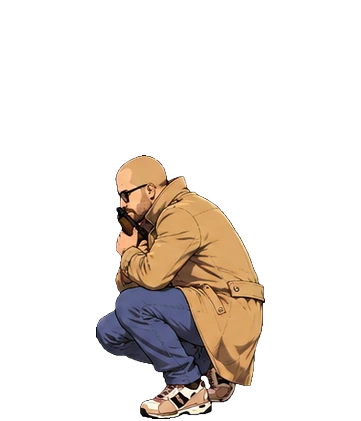
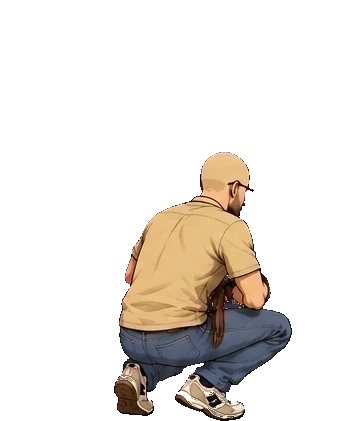
callaghan v7.05 : retour aux anciens personnages de la ruelle
Thibaut n'aime pas les nouveaux. Les 25 sprites d'avant sont restaures
depuis le depot.

- POSES_RUEL_TH et _PF reviennent a leurs jeux d'origine : les anciens
  sprites n'ont pas 'fumee' pour Thibaut ni 'debout' pour PF. Les deux
  fichiers ajoutes sont supprimes, et les canons mesures pour eux retires.
- SENS_NATIF revient a +1 pour les deux : les anciennes planches regardent
  toutes a droite.

CE QUI EST GARDE, parce qu'independant des dessins :
- l'orientation DECLAREE. C'est elle qui a rendu ce retour possible sans
  toucher au rendu : il a suffi de redeclarer PF en 'regarde a droite'. Le
  'i === 1' en dur aurait demande de rouvrir le code de dessin.
- les deux scenes de controle, tir et rechargement des deux heros.

Les nouvelles planches restent archivees dans planches/n4/ : rien n'est
perdu si l'avis change.

Changed region(s): [[0.2438, 0.3397, 0.8227, 1.0]]

diff --git a/callaghan/index.html b/callaghan/index.html
@@ -783,7 +783,7 @@ kbd{
     <div class="lecture" id="dLecture"></div>
   </div>
 
-  <div id="version">CALLAGHAN v7.04</div>
+  <div id="version">CALLAGHAN v7.05</div>
 
   <div id="pupitre2">
     <button class="cmd2" id="c2G" aria-label="Aller à gauche">◀</button>
@@ -855,7 +855,7 @@ kbd{
      UIManager         -> Interface
 ================================================================== */
 
-const VERSION = "7.04";
+const VERSION = "7.05";
 
 /* ---------- géométrie ----------
    Tout est exprimé en « unités monde », où un personnage mesure
@@ -1829,17 +1829,16 @@ const OBJETS_RUELLE = [
    Un `+1` regarde à droite, un `-1` à gauche. Le rendu retourne
    l'image quand le sens VOULU diffère du sens natif, au lieu de retourner
    un indice choisi une fois pour toutes. */
-const SENS_NATIF = { ruel_th: +1, ruel_pf: -1 };
+const SENS_NATIF = { ruel_th: +1, ruel_pf: +1 };
 
 /* Le sens vers lequel chaque héros doit regarder dans la ruelle : ils
    encadrent la barricade, donc ils se font face. */
 const SENS_VOULU = [+1, -1];
 
 const POSES_RUEL_TH = ["accroupi", "leve1", "leve2", "debout", "arme1", "arme2",
-                       "vise1", "vise2", "tir", "fumee", "recul1", "recul2",
-                       "baisse"];
-const POSES_RUEL_PF = ["accroupi", "leve1", "leve2", "debout", "arme1", "arme2",
-                       "vise", "tir", "fumee", "recul1", "recul2", "baisse"];
+                       "vise1", "vise2", "tir", "recul1", "recul2", "baisse"];
+const POSES_RUEL_PF = ["accroupi", "leve1", "leve2", "arme1", "arme2", "vise",
+                       "tir", "fumee", "recul1", "recul2", "baisse"];
 /* L'intro du niveau 4 : le duo sur la ruelle floutée. Elle sert à deux
    choses — annoncer le niveau, et donner au navigateur le temps de
    charger le décor et les ennemis avant la première image. */
@@ -10338,13 +10337,8 @@ const CANONS = {
     baisse:[0.701, 0.421],   debout:[0.834, 0.496], leve1:[0.562, 0.407],
     leve2:[0.671, 0.393],    recul1:[0.825, 0.136], recul2:[0.725, 0.186],
     tir:[0.964, 0.160],      vise1:[0.894, 0.153],  vise2:[0.906, 0.167],
-    /* MESURÉE sur le nouveau sprite : l'arme retombe, la bouche descend
-       à mi-hauteur et recule au milieu du corps. */
-    fumee:[0.574, 0.416],
   },
   pf: {
-    /* MESURÉE sur le nouveau sprite. */
-    debout:[0.222, 0.603],
     accroupi:[0.701, 0.451], arme1:[0.911, 0.240], arme2:[0.958, 0.093],
     baisse:[0.729, 0.411],   fumee:[0.864, 0.128], leve1:[0.571, 0.492],
     leve2:[0.601, 0.494],    recul1:[0.787, 0.192], recul2:[0.751, 0.342],

diff --git a/callaghan/parts/a_socle.js b/callaghan/parts/a_socle.js
@@ -18,7 +18,7 @@
      UIManager         -> Interface
 ================================================================== */
 
-const VERSION = "7.04";
+const VERSION = "7.05";
 
 /* ---------- géométrie ----------
    Tout est exprimé en « unités monde », où un personnage mesure
@@ -992,17 +992,16 @@ const OBJETS_RUELLE = [
    Un `+1` regarde à droite, un `-1` à gauche. Le rendu retourne
    l'image quand le sens VOULU diffère du sens natif, au lieu de retourner
    un indice choisi une fois pour toutes. */
-const SENS_NATIF = { ruel_th: +1, ruel_pf: -1 };
+const SENS_NATIF = { ruel_th: +1, ruel_pf: +1 };
 
 /* Le sens vers lequel chaque héros doit regarder dans la ruelle : ils
    encadrent la barricade, donc ils se font face. */
 const SENS_VOULU = [+1, -1];
 
 const POSES_RUEL_TH = ["accroupi", "leve1", "leve2", "debout", "arme1", "arme2",
-                       "vise1", "vise2", "tir", "fumee", "recul1", "recul2",
-                       "baisse"];
-const POSES_RUEL_PF = ["accroupi", "leve1", "leve2", "debout", "arme1", "arme2",
-                       "vise", "tir", "fumee", "recul1", "recul2", "baisse"];
+                       "vise1", "vise2", "tir", "recul1", "recul2", "baisse"];
+const POSES_RUEL_PF = ["accroupi", "leve1", "leve2", "arme1", "arme2", "vise",
+                       "tir", "fumee", "recul1", "recul2", "baisse"];
 /* L'intro du niveau 4 : le duo sur la ruelle floutée. Elle sert à deux
    choses — annoncer le niveau, et donner au navigateur le temps de
    charger le décor et les ennemis avant la première image. */

diff --git a/callaghan/parts/j_ruelle.js b/callaghan/parts/j_ruelle.js
@@ -353,13 +353,8 @@ const CANONS = {
     baisse:[0.701, 0.421],   debout:[0.834, 0.496], leve1:[0.562, 0.407],
     leve2:[0.671, 0.393],    recul1:[0.825, 0.136], recul2:[0.725, 0.186],
     tir:[0.964, 0.160],      vise1:[0.894, 0.153],  vise2:[0.906, 0.167],
-    /* MESURÉE sur le nouveau sprite : l'arme retombe, la bouche descend
-       à mi-hauteur et recule au milieu du corps. */
-    fumee:[0.574, 0.416],
   },
   pf: {
-    /* MESURÉE sur le nouveau sprite. */
-    debout:[0.222, 0.603],
     accroupi:[0.701, 0.451], arme1:[0.911, 0.240], arme2:[0.958, 0.093],
     baisse:[0.729, 0.411],   fumee:[0.864, 0.128], leve1:[0.571, 0.492],
     leve2:[0.601, 0.494],    recul1:[0.787, 0.192], recul2:[0.751, 0.342],

diff --git a/callaghan/LISEZMOI.md b/callaghan/LISEZMOI.md
@@ -573,6 +573,22 @@ champion, tournée, affiche de la ruelle, fusillade. **Ajouter un écran
 plus tard ne demandera rien** — c'est là toute la valeur d'une règle
 générale : elle couvre aussi les écrans qui n'existent pas encore.
 
+**Retour aux anciens personnages de la ruelle** (v7.05). Les 25 sprites
+d'avant sont restaurés depuis le dépôt — c'est justement pour ça que les
+planches y sont archivées.
+
+Ce qui est GARDÉ, parce que c'est indépendant des dessins :
+- **l'orientation déclarée.** Le rendu retournait l'héros d'indice 1 en
+  dur ; il compare maintenant le sens VOULU au sens NATIF de chaque
+  planche. C'est ce mécanisme qui a rendu ce retour en arrière possible
+  sans toucher au rendu : il a suffi de redéclarer PF en « regarde à
+  droite ».
+- **les deux scènes de contrôle**, tir et rechargement des deux héros.
+  Elles serviront à chaque planche future.
+
+Les nouvelles planches restent archivées dans `planches/n4/` : elles ne
+sont pas perdues si l'avis change.
+
 **L'orientation des héros se DÉCLARE** (v7.04). Vingt-huit sprites de
 la ruelle refaits, et une correction de fond : le rendu retournait
 l'héros d'indice 1 **en dur**, ce qui ne marchait que si toutes les
